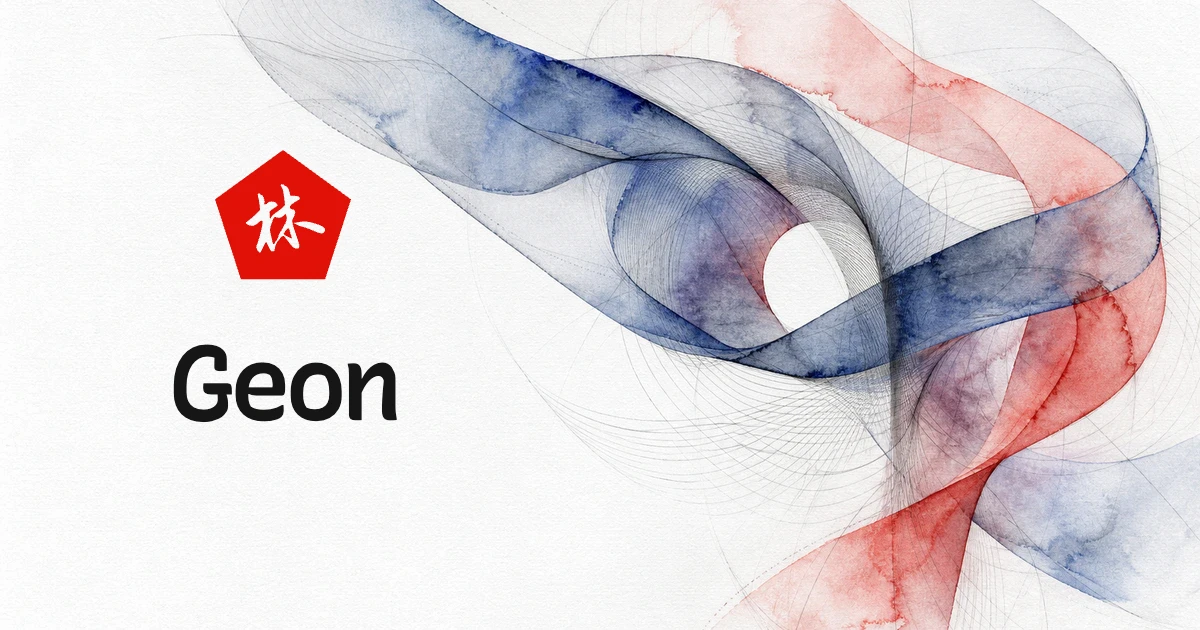
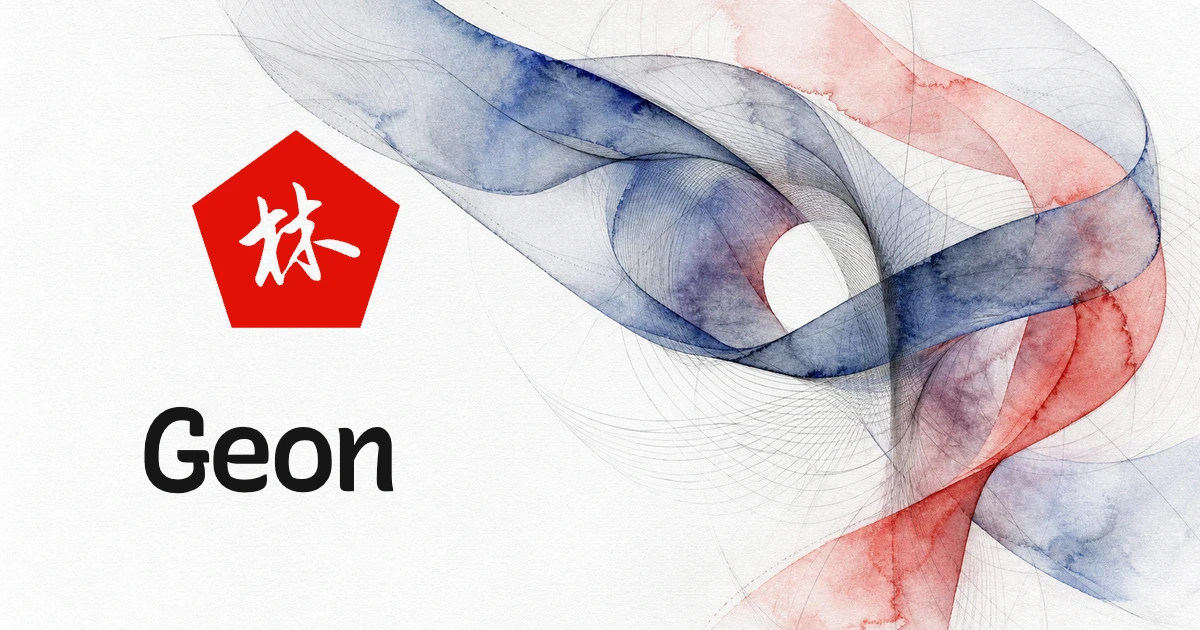
Strengthen social card identity

Changed region(s): [[0.1542, 0.2111, 0.3392, 0.5429], [0.1233, 0.5429, 0.3392, 0.7841]]

diff --git a/index.html b/index.html
@@ -13,8 +13,8 @@
     <meta property="og:url" content="https://a9l.im/geon">
     <meta property="og:site_name" content="a9l.im">
     <meta name="twitter:card" content="summary_large_image">
-    <meta property="og:image" content="https://a9l.im/geon/og-image.webp?v=20260725d">
-    <meta name="twitter:image" content="https://a9l.im/geon/og-image.webp?v=20260725d">
+    <meta property="og:image" content="https://a9l.im/geon/og-image.webp?v=20260725e">
+    <meta name="twitter:image" content="https://a9l.im/geon/og-image.webp?v=20260725e">
     <meta name="twitter:image:alt" content="Geon — relativistic particle physics simulator by a9l.im">
     <meta property="og:image:width" content="1200">
     <meta property="og:image:height" content="630">
